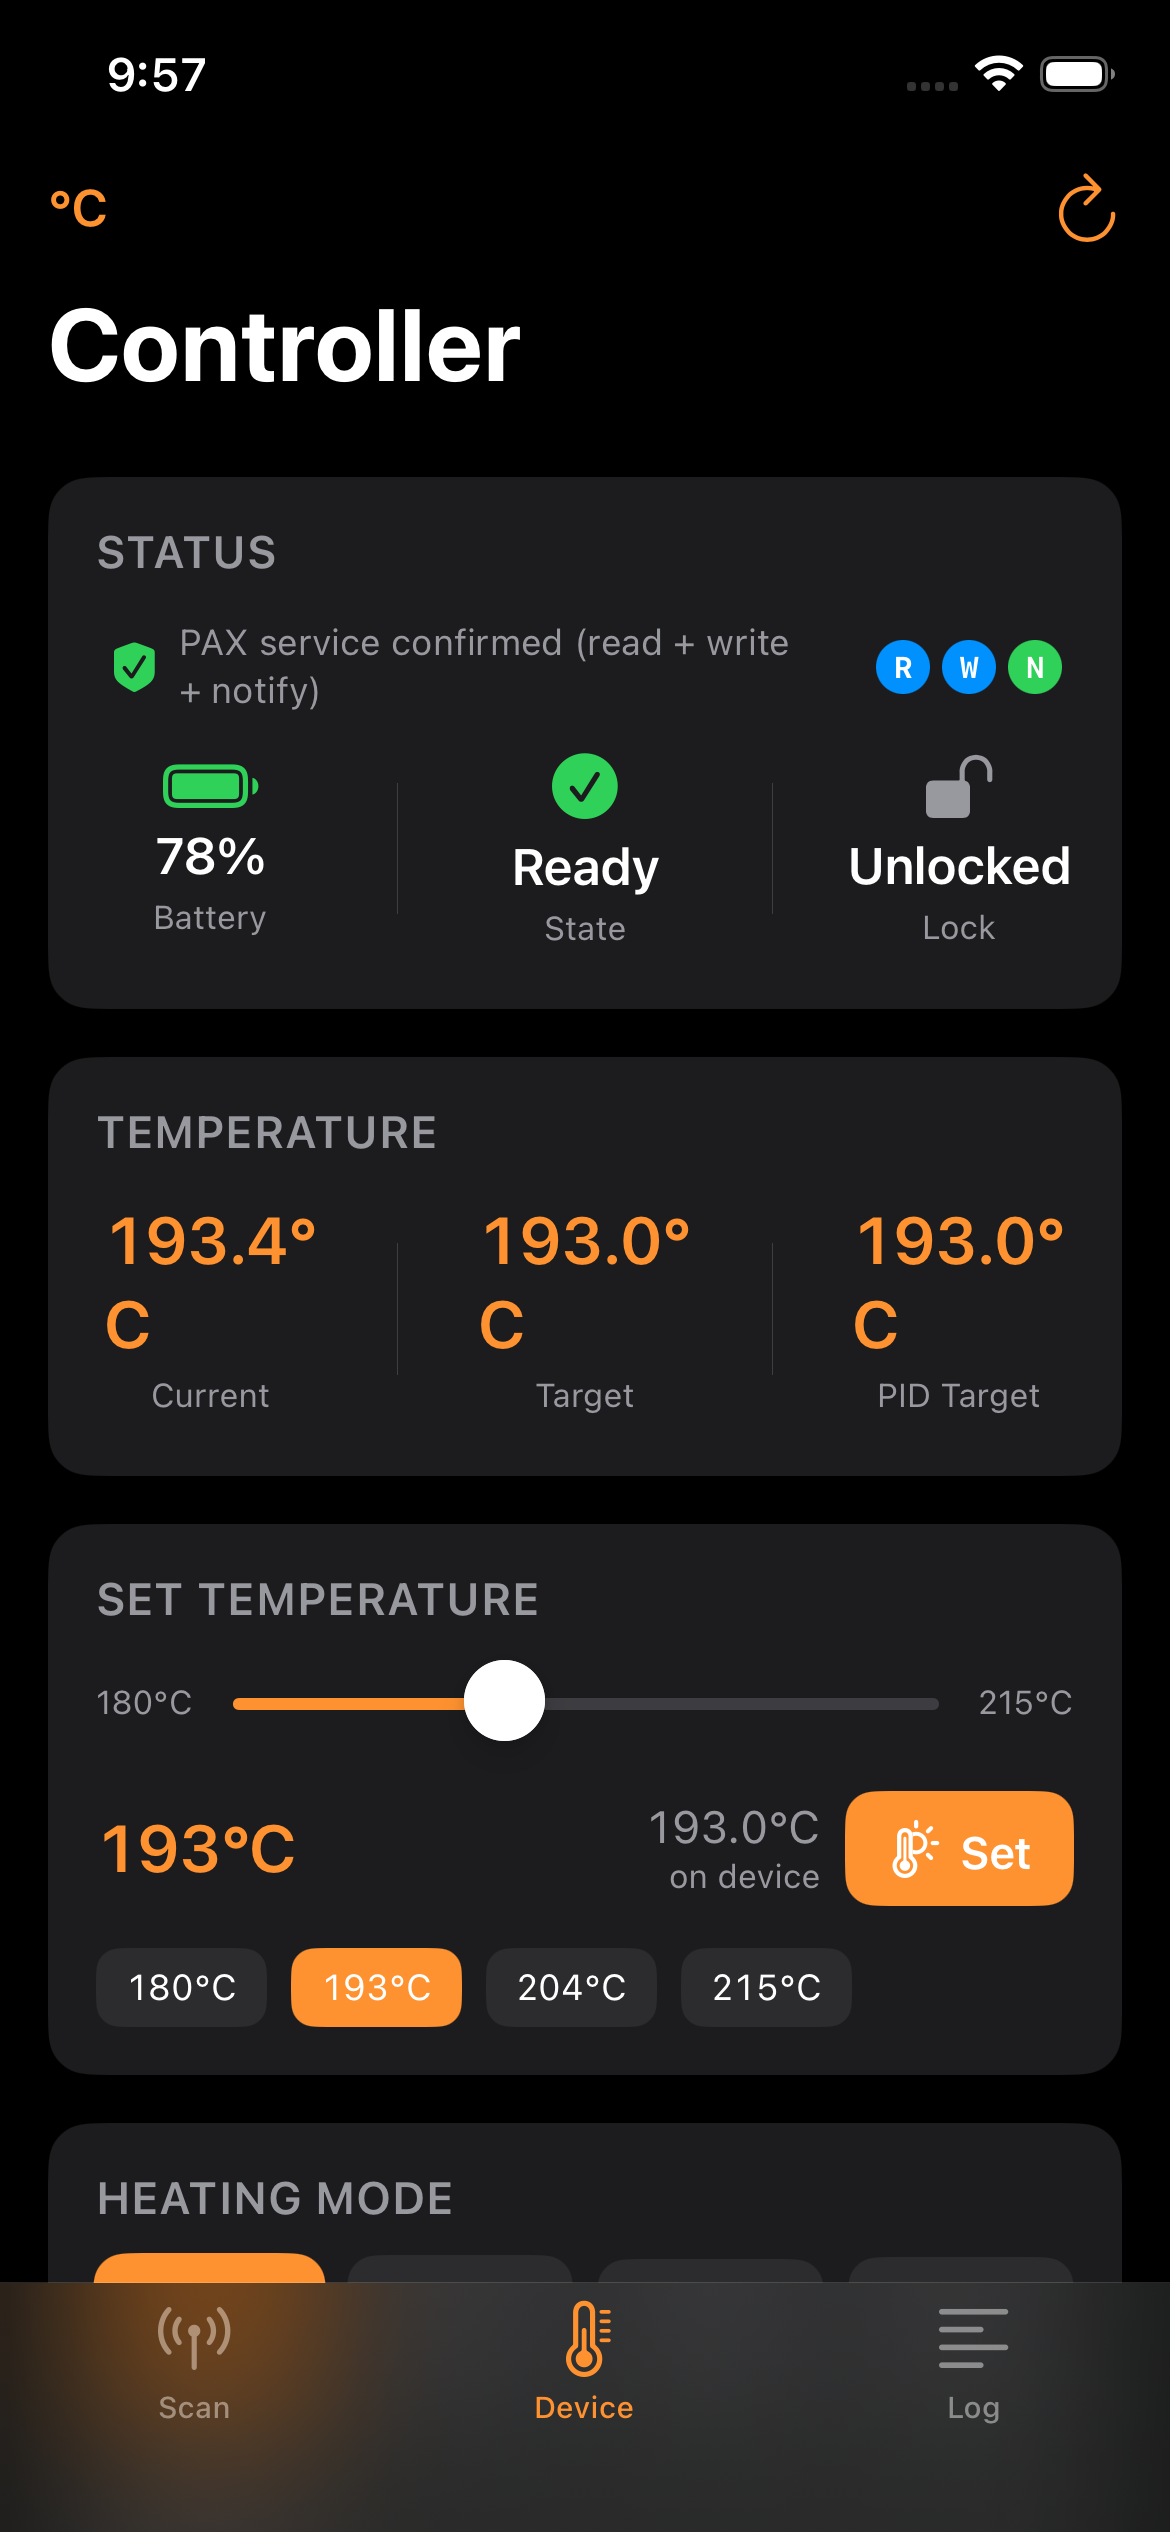
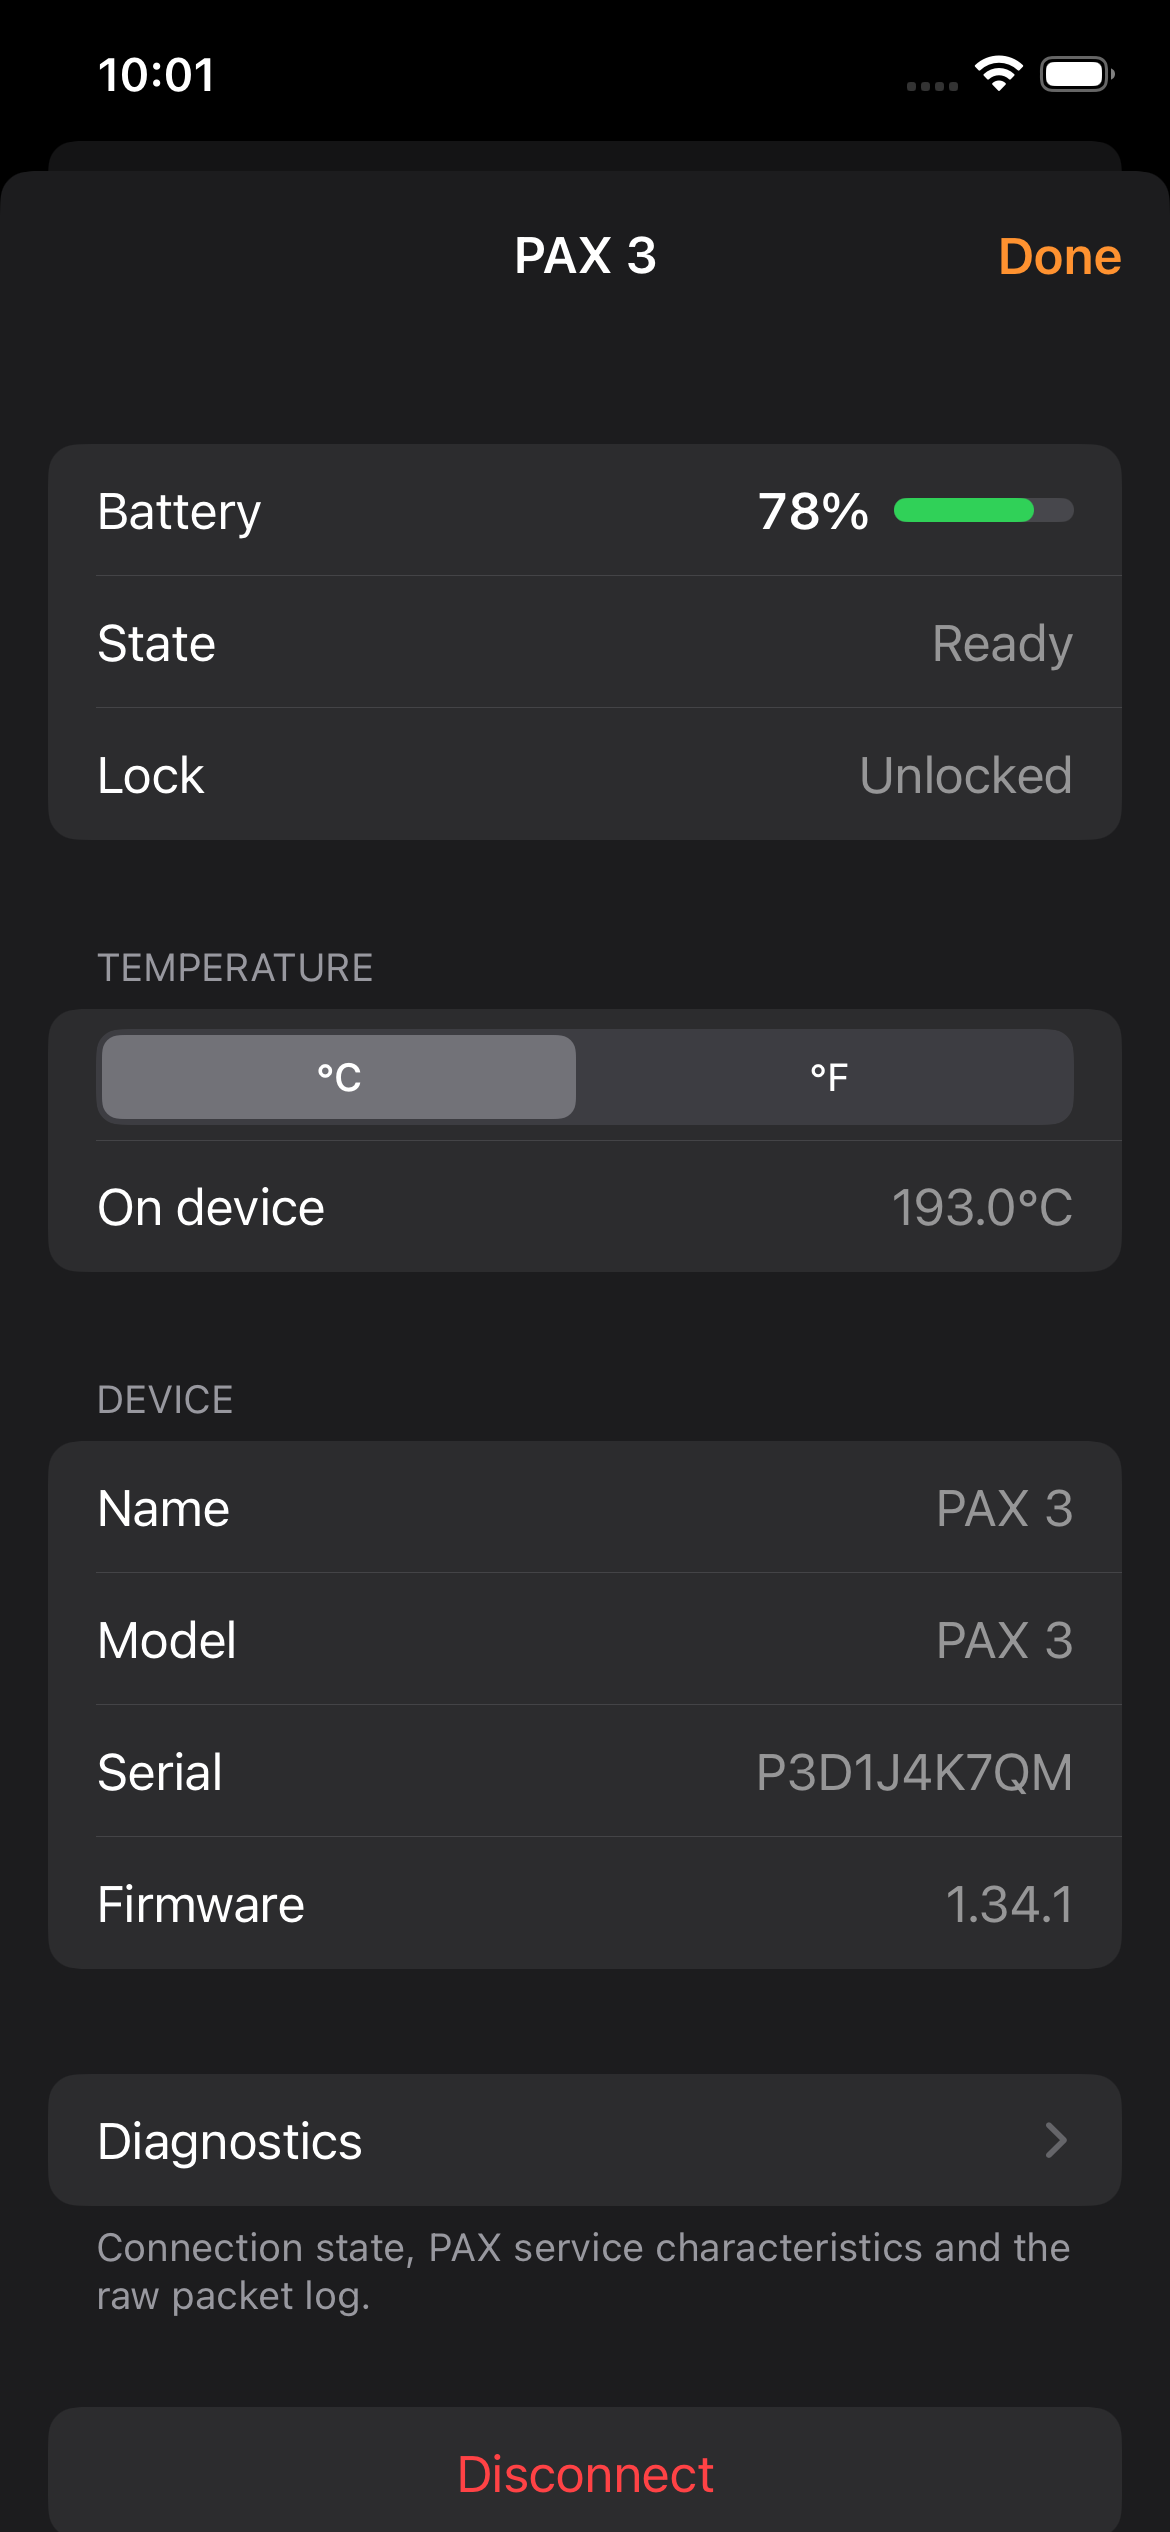
Update simulator screenshots (run 34901491532)

diff --git a/screenshots/README.md b/screenshots/README.md
@@ -4,8 +4,9 @@ Captured automatically by the `Build` workflow.
 
 - Device: iPhone 14
 - Runtime: iOS 26.2
-- Run: 34900777407
+- Run: 34901491532
 
-The simulator has no Bluetooth radio, so the app shows its
-disconnected state. These confirm the app builds, launches and
-renders; they do not exercise the PAX connection.
+The simulator has no Bluetooth radio, so the app is launched with
+a demo fixture standing in for a connected PAX 3. These confirm the
+app builds, launches and renders; they do not exercise the PAX
+connection.
